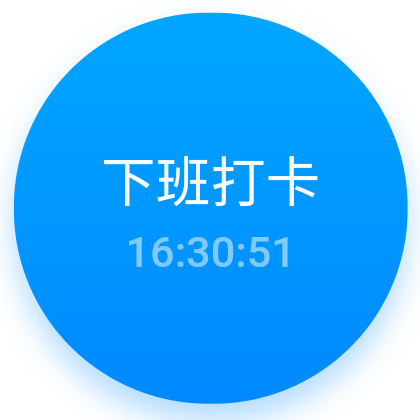
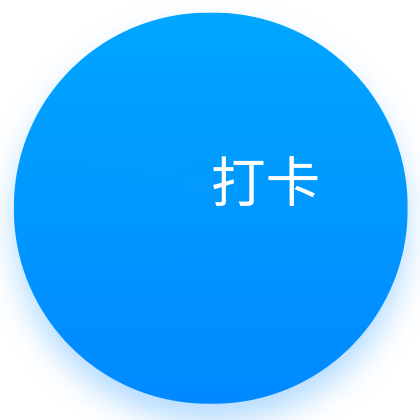
修改爽歪歪

Changed region(s): [[0.3095, 0.5571, 0.7119, 0.65], [0.2476, 0.3714, 0.4952, 0.4952]]

diff --git a/punch/main_widget.py b/punch/main_widget.py
@@ -134,21 +134,13 @@ class MainWidget(QWidget):
 
     def punch_task(self):
         if self.punch_time == 0:
-            self.ui.countdown.setText("亮屏")
-            os.system("adb shell input keyevent 82")
-        elif self.punch_time == 5:
-            self.ui.countdown.setText("启动主页")
-            ding_ding_class = "com.alibaba.android.rimet/com.alibaba.android.rimet.biz.LaunchHomeActivity"
-            os.system("adb shell am start -n " + ding_ding_class)
-
-        elif self.punch_time == 10:
             self.ui.countdown.setText("步骤一 截图")
             os.system("adb shell screencap /sdcard/AutoPunchScreenshot.png")
             os.system("adb pull /sdcard/AutoPunchScreenshot.png %s" % self.ScreenshotImage)
-        elif self.punch_time == 15:
+        elif self.punch_time == 2:
             img1 = Image(self.ScreenshotImage)
             img2 = Image(utils.resource_path(os.path.join("image", "app.png")))
-            process = MatchImg(img1, img2, 0.6)
+            process = MatchImg(img1, img2, 0.5)
             points = process.get_img_center()
             if len(points) > 0:
                 self.ui.countdown.setText("步骤一 点击 %d %d" % (points[0][0], points[0][1]))
@@ -157,11 +149,11 @@ class MainWidget(QWidget):
             else:
                 self.ui.countdown.setText("步骤一 无点击")
 
-        elif self.punch_time == 20:
+        elif self.punch_time == 6:
             self.ui.countdown.setText("步骤二 截图")
             os.system("adb shell screencap /sdcard/AutoPunchScreenshot.png")
             os.system("adb pull /sdcard/AutoPunchScreenshot.png %s" % self.ScreenshotImage)
-        elif self.punch_time == 25:
+        elif self.punch_time == 8:
             img1 = Image("C:/IJoySoft/Kevin/AutoPunch/AutoPunchScreenshot.png")
             img2 = Image(utils.resource_path(os.path.join("image", "punch.png")))
             process = MatchImg(img1, img2, 0.8)
@@ -173,19 +165,21 @@ class MainWidget(QWidget):
             else:
                 self.ui.countdown.setText("步骤二 无点击")
 
-        elif self.punch_time == 35:
+        elif self.punch_time == 14:
             self.ui.countdown.setText("步骤三 截图")
             os.system("adb shell screencap /sdcard/AutoPunchScreenshot.png")
             os.system("adb pull /sdcard/AutoPunchScreenshot.png %s" % self.ScreenshotImage)
-        elif self.punch_time == 40:
+        elif self.punch_time == 16:
             img1 = Image("C:/IJoySoft/Kevin/AutoPunch/AutoPunchScreenshot.png")
             img2 = Image(utils.resource_path(os.path.join("image", "punch_complete.png")))
-            process = MatchImg(img1, img2, 0.6)
+            process = MatchImg(img1, img2, 0.5)
             points = process.get_img_center()
             if len(points) > 0:
+                self.ui.countdown.setText("步骤三 点击 %d %d" % (points[0][0], points[0][1]))
                 print(points)
                 os.system("adb shell input tap %d %d" % (points[0][0], points[0][1]))
-            self.ui.countdown.setText("表演结束")
+            else:
+                self.ui.countdown.setText("步骤三 无点击")
             return
 
         self.punch_time += 1

diff --git a/punch/release.py b/punch/release.py
@@ -1,6 +1,6 @@
 import os
 
-release_version = "爽歪歪1.0.2"
+release_version = "爽歪歪1.0.3"
 
 if __name__ == '__main__':
     os.system(
